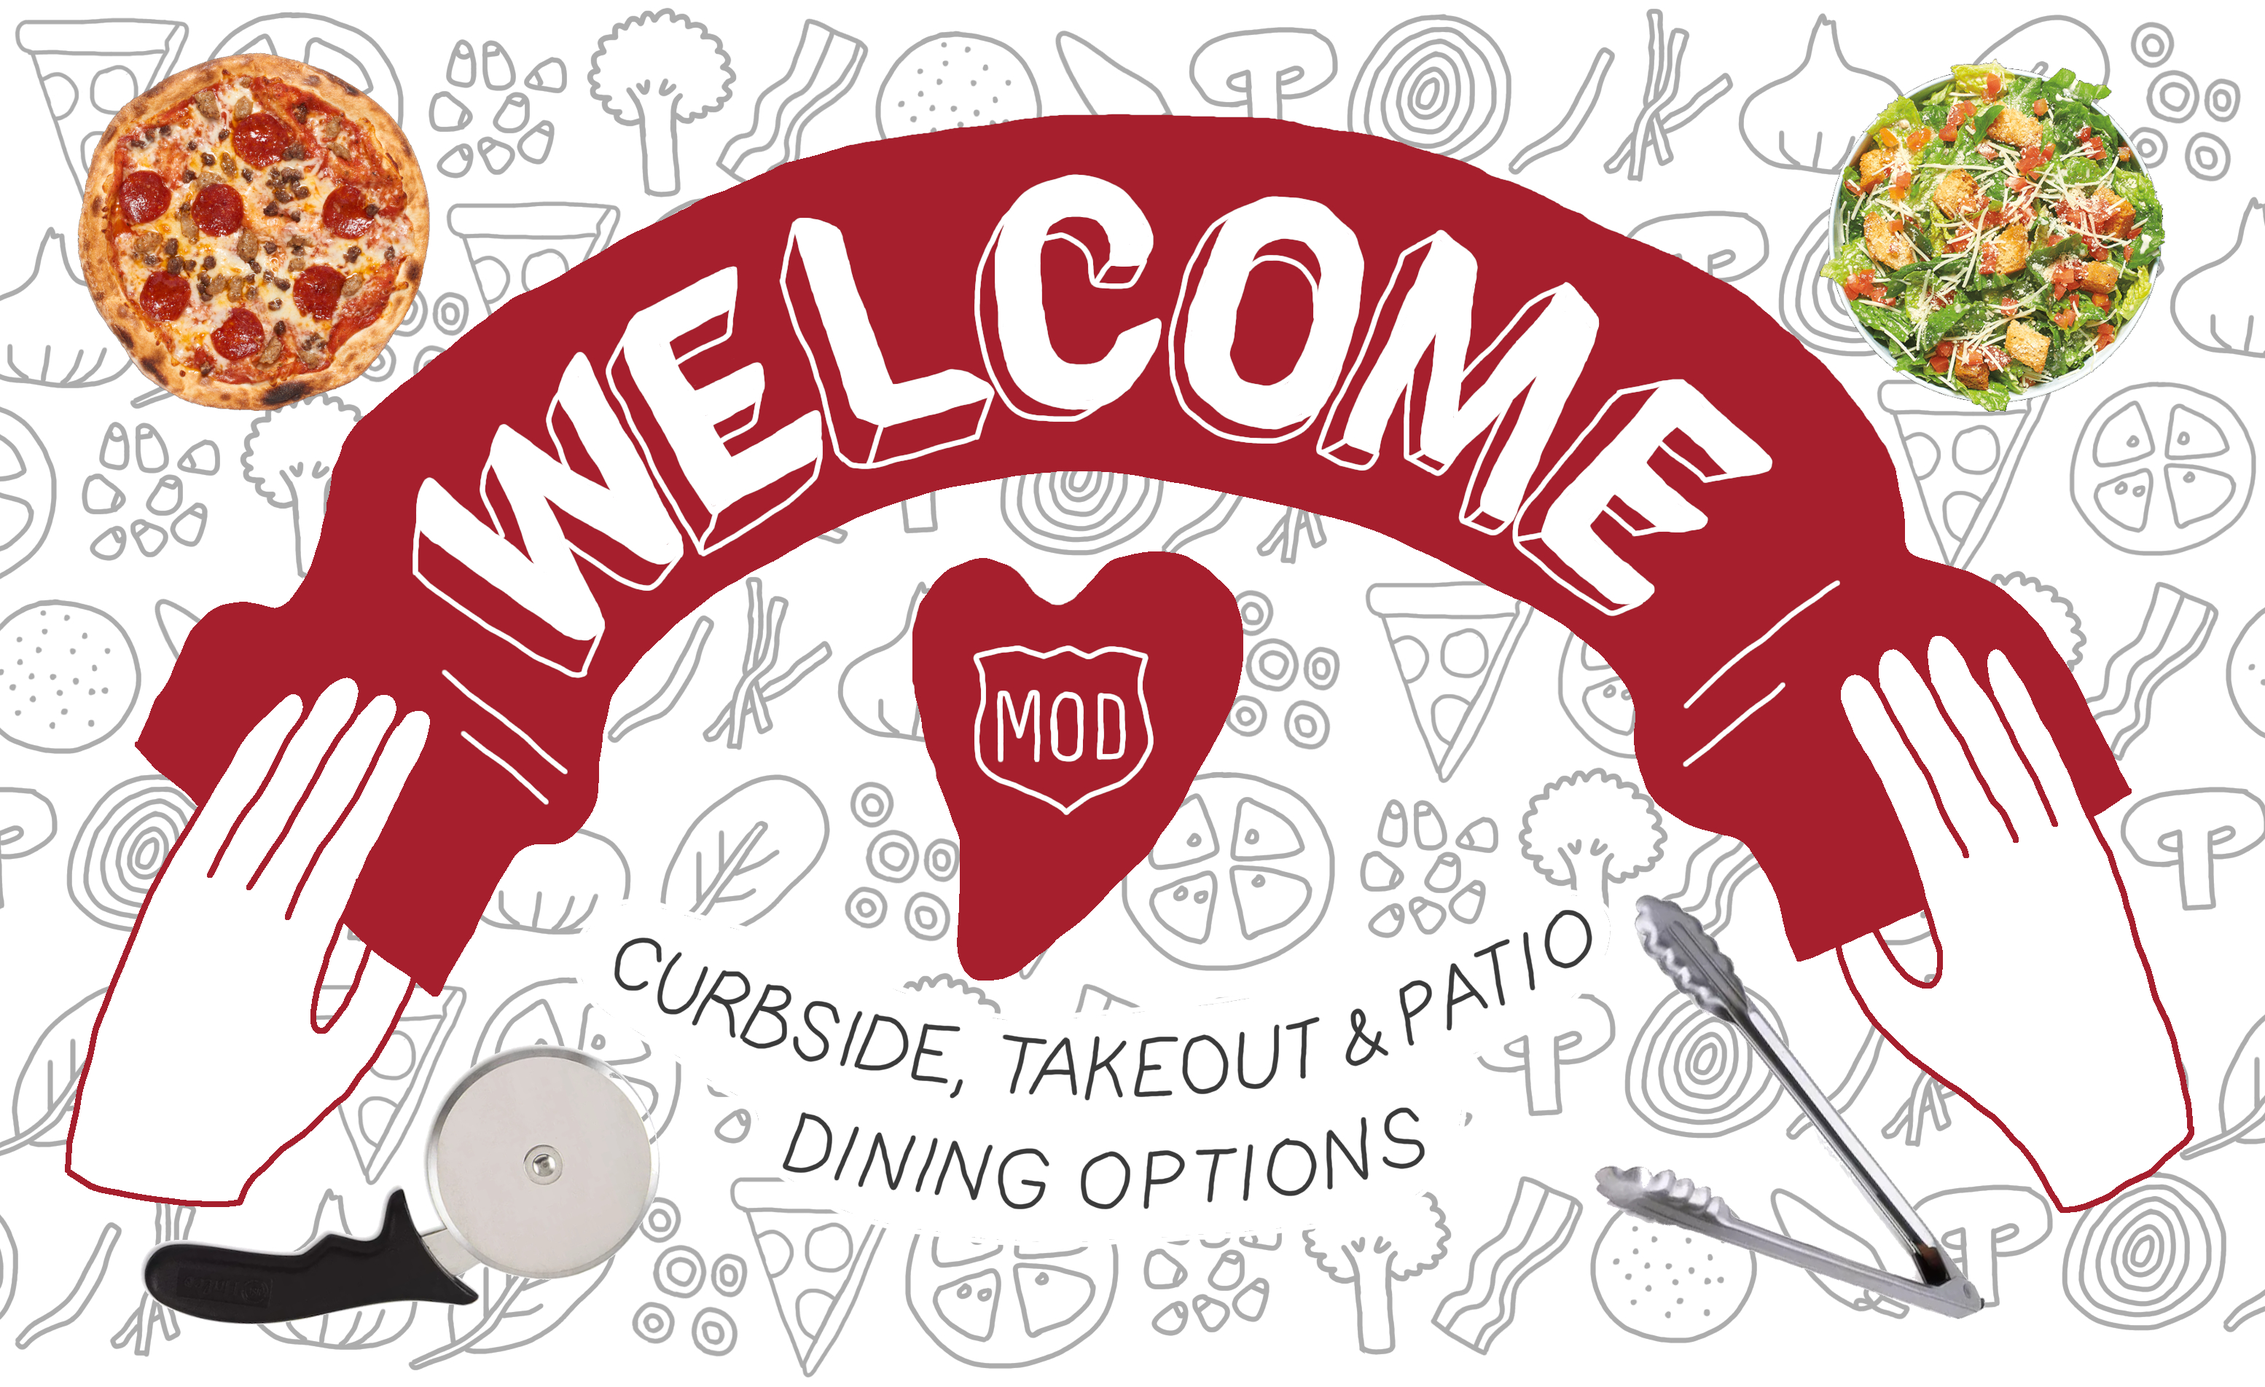
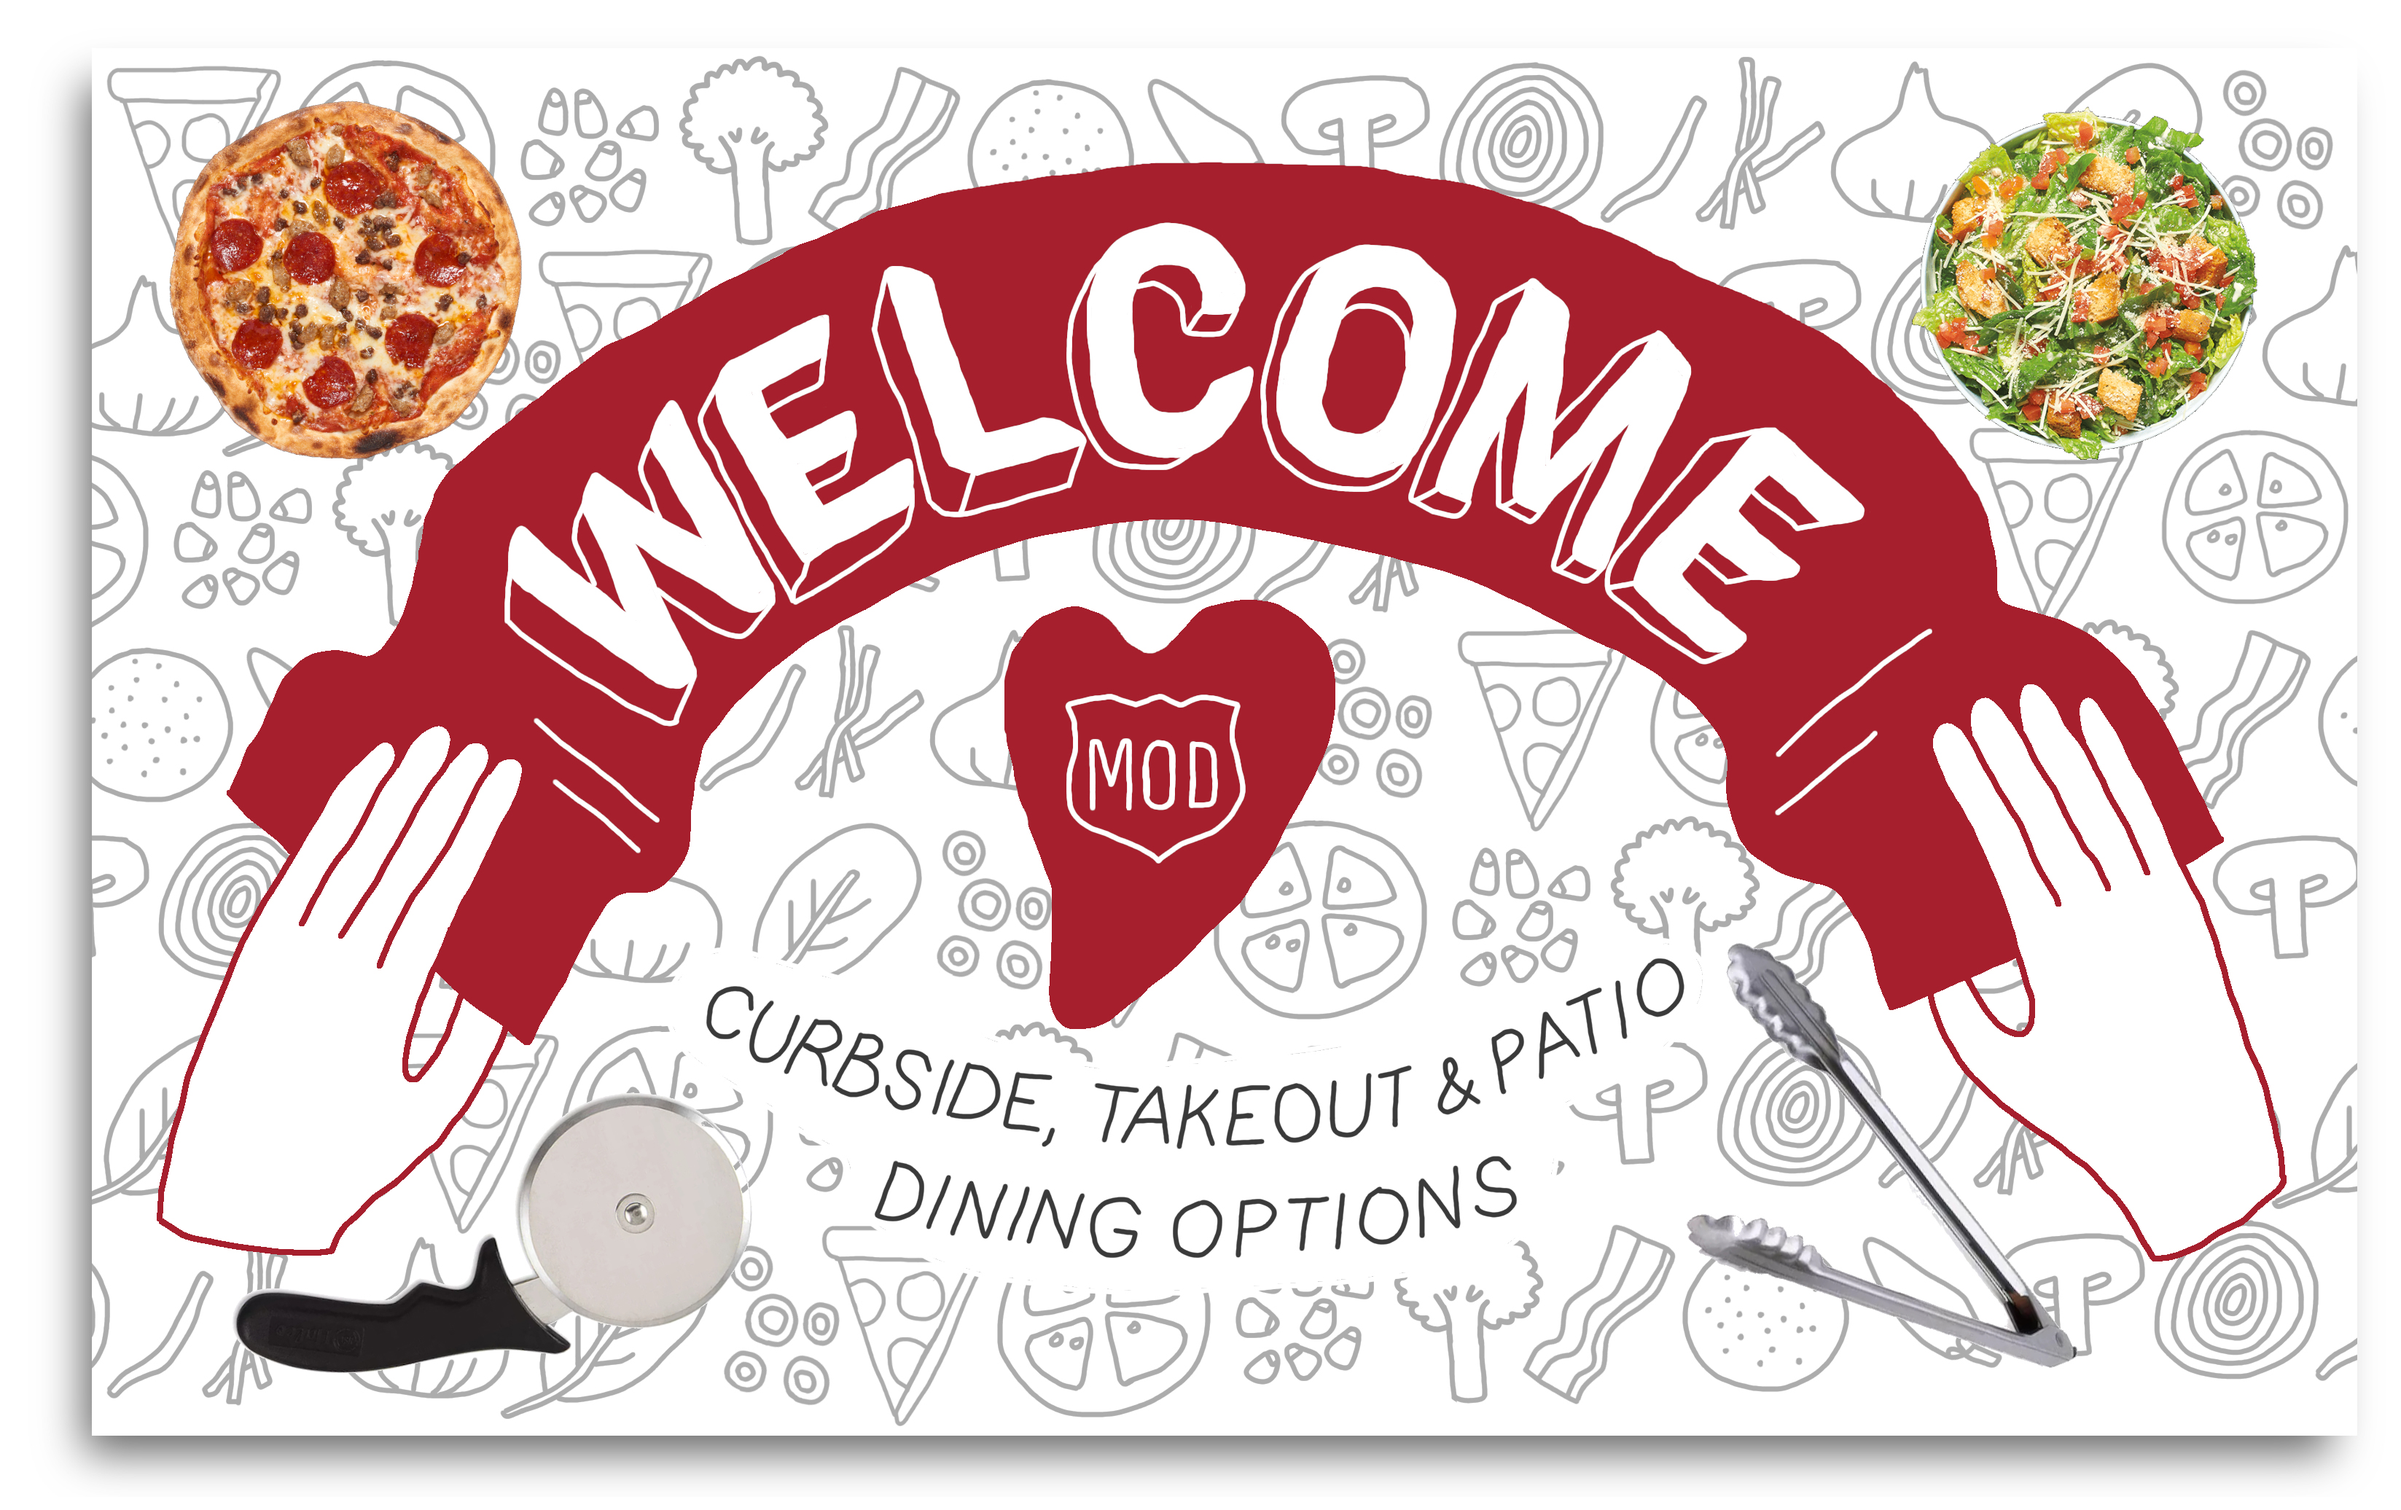
poster

diff --git a/posters_print.html b/posters_print.html
@@ -32,6 +32,7 @@
         <img src="images/posters_print/threethings.png">
         <img id="lrgimg" src="images/posters_print/skate.png">
         <img id="lrgimg" src="images/posters_print/past_present_future.png">
+        <img id="lrgimg" src="images/posters_print/modbanner1.jpg">
         <img id="lrgimg" src="images/posters_print/five_lessons.png">
         <img src="images/posters_print/canadaposter.png">
       </div>

diff --git a/newweb.css b/newweb.css
@@ -141,6 +141,7 @@ img {
 #lrgimg {
 
 max-width: 1000px;
+padding: 50px;
 }
 
 /*----text formatting-----*/
